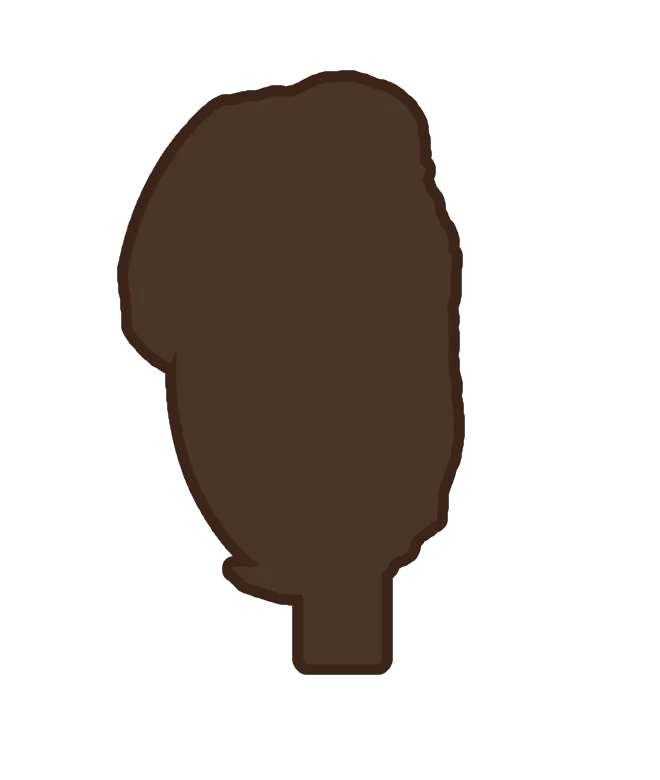
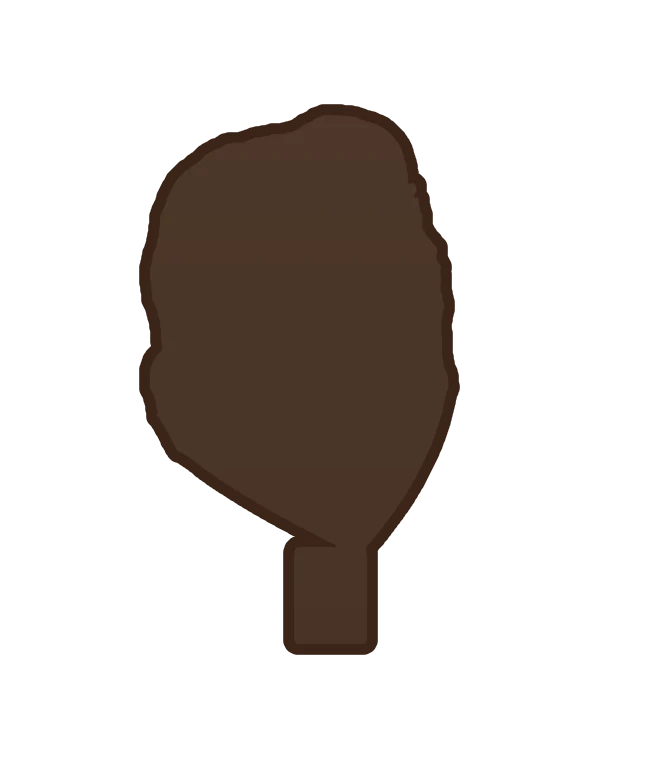
Refine eDAP leader caricatures to full unclipped head cutouts

Changed region(s): [[0.1515, 0.0923, 0.7273, 0.8923]]

diff --git a/src/admin/caricature.ts b/src/admin/caricature.ts
@@ -791,11 +791,11 @@ export async function renderCaricature(
       }
 
       if (y <= chinY - 8) {
-        // Above chin: tighten non-hair reach to ear width (~160px) so background shoulders/people don't leak in,
-        // while letting genuine hair segmentation reach out (~225px) for wide curls/ponytails.
-        const faceEllipse = Math.hypot((x - targetEyesX) / (158 * zoom), (y - (targetEyesY + 12 * zoom)) / (215 * zoom));
+        // Above chin: allow full ear & cheek reach (~192px) so protruding ears/cheeks are never clipped,
+        // while letting genuine hair segmentation reach out (~255px) for wide curls/flowing hair.
+        const faceEllipse = Math.hypot((x - targetEyesX) / (192 * zoom), (y - (targetEyesY + 12 * zoom)) / (225 * zoom));
         const faceHalo = clamp((1.14 - faceEllipse) / 0.16, 0, 1);
-        const hairEllipse = Math.hypot((x - targetEyesX) / (225 * zoom), (y - (targetEyesY - 35 * zoom)) / (270 * zoom));
+        const hairEllipse = Math.hypot((x - targetEyesX) / (255 * zoom), (y - (targetEyesY - 35 * zoom)) / (280 * zoom));
         const hairHalo = clamp((1.16 - hairEllipse) / 0.16, 0, 1);
         const pFg = clamp((personP - 0.4) / 0.26, 0, 1) * faceHalo;
         const hFg = clamp((hairP - 0.38) / 0.26, 0, 1) * hairHalo;
